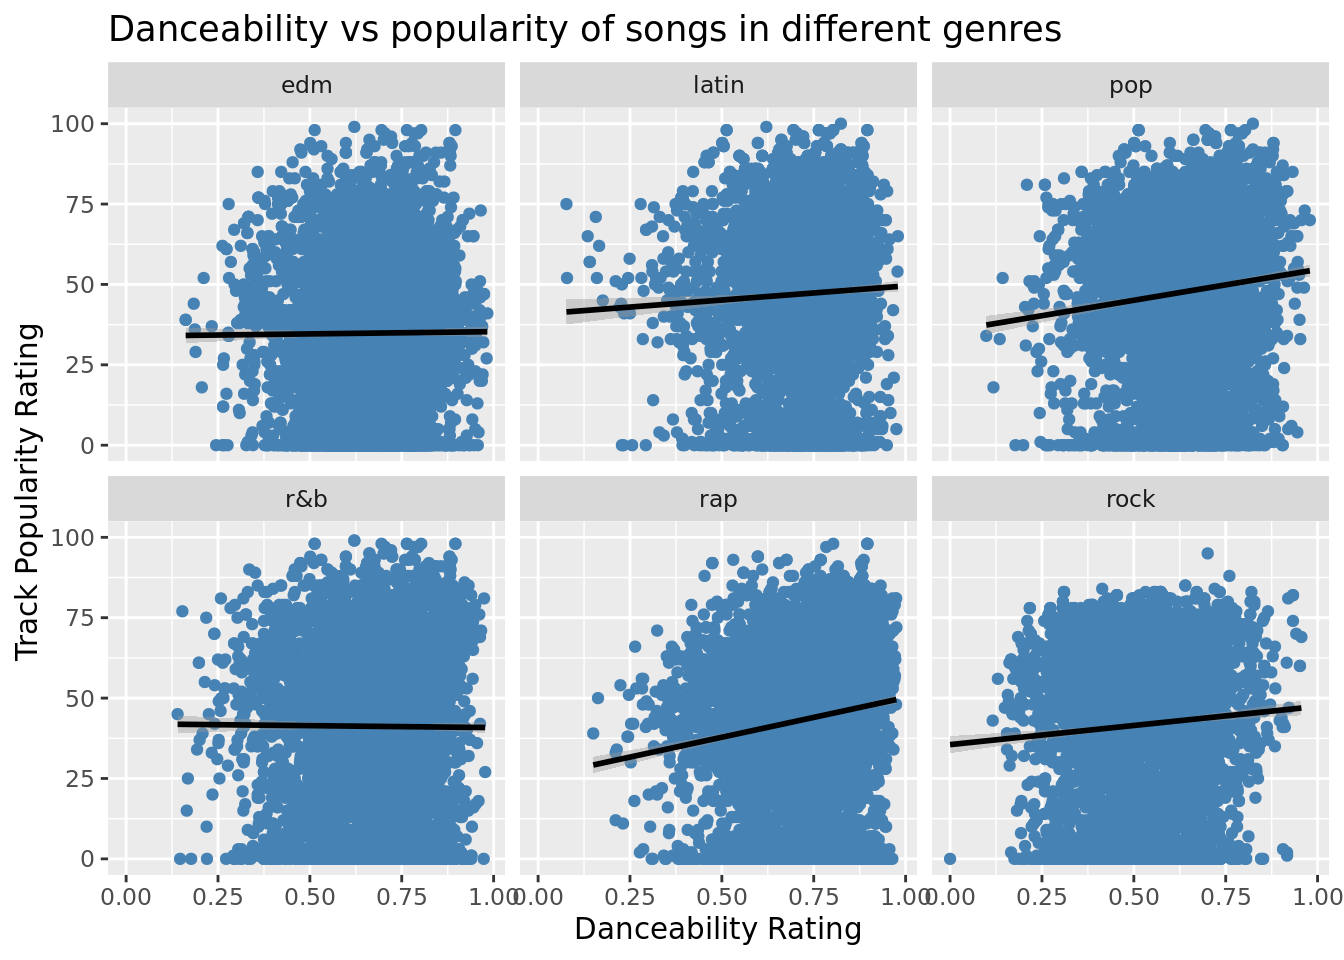
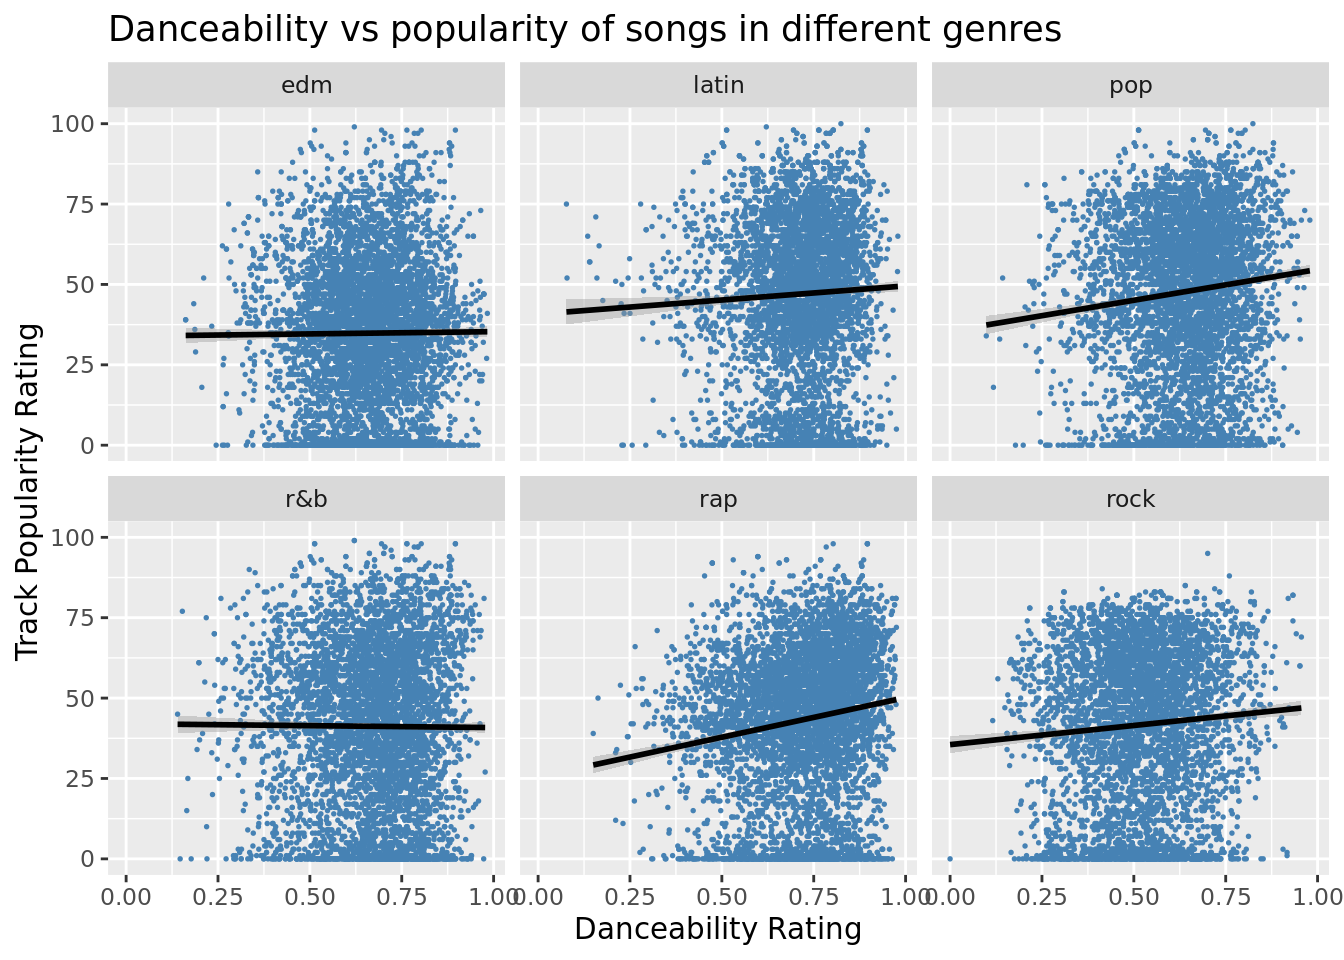
changed plots to be more clear based on recommendations.

diff --git a/docs/report.html b/docs/report.html
@@ -172,6 +172,7 @@ code span.wa { color: #60a0b0; font-weight: bold; font-style: italic; } /* Warni
   <li><a href="#methodology" id="toc-methodology" class="nav-link" data-scroll-target="#methodology">Methodology</a></li>
   <li><a href="#data" id="toc-data" class="nav-link" data-scroll-target="#data">Data</a></li>
   <li><a href="#results-and-analysis" id="toc-results-and-analysis" class="nav-link" data-scroll-target="#results-and-analysis">Results and Analysis</a></li>
+  <li><a href="#overall-results" id="toc-overall-results" class="nav-link" data-scroll-target="#overall-results">Overall Results</a></li>
   </ul>
 </nav>
     </div>
@@ -255,7 +256,7 @@ code span.wa { color: #60a0b0; font-weight: bold; font-style: italic; } /* Warni
 <span id="cb4-5"><a href="#cb4-5" aria-hidden="true" tabindex="-1"></a>      <span class="at">y =</span> track_popularity</span>
 <span id="cb4-6"><a href="#cb4-6" aria-hidden="true" tabindex="-1"></a>    )</span>
 <span id="cb4-7"><a href="#cb4-7" aria-hidden="true" tabindex="-1"></a>  ) <span class="sc">+</span></span>
-<span id="cb4-8"><a href="#cb4-8" aria-hidden="true" tabindex="-1"></a>  <span class="fu">geom_point</span>(<span class="at">color =</span> <span class="st">"steelblue"</span>) <span class="sc">+</span></span>
+<span id="cb4-8"><a href="#cb4-8" aria-hidden="true" tabindex="-1"></a>  <span class="fu">geom_point</span>(<span class="at">color =</span> <span class="st">"steelblue"</span>, <span class="at">alpha =</span> .<span class="dv">5</span>, <span class="at">size =</span> .<span class="dv">5</span>) <span class="sc">+</span></span>
 <span id="cb4-9"><a href="#cb4-9" aria-hidden="true" tabindex="-1"></a>  <span class="fu">geom_smooth</span>(<span class="at">method =</span> <span class="st">"lm"</span>, <span class="at">color =</span> <span class="st">"black"</span>) <span class="sc">+</span></span>
 <span id="cb4-10"><a href="#cb4-10" aria-hidden="true" tabindex="-1"></a>  <span class="fu">labs</span>(</span>
 <span id="cb4-11"><a href="#cb4-11" aria-hidden="true" tabindex="-1"></a>    <span class="at">x =</span> <span class="st">"Danceability Rating"</span>,</span>
@@ -279,7 +280,7 @@ code span.wa { color: #60a0b0; font-weight: bold; font-style: italic; } /* Warni
 <span id="cb6-5"><a href="#cb6-5" aria-hidden="true" tabindex="-1"></a>      <span class="at">y =</span> track_popularity</span>
 <span id="cb6-6"><a href="#cb6-6" aria-hidden="true" tabindex="-1"></a>    )</span>
 <span id="cb6-7"><a href="#cb6-7" aria-hidden="true" tabindex="-1"></a>  ) <span class="sc">+</span></span>
-<span id="cb6-8"><a href="#cb6-8" aria-hidden="true" tabindex="-1"></a>  <span class="fu">geom_point</span>(<span class="at">color =</span> <span class="st">"steelblue"</span>) <span class="sc">+</span></span>
+<span id="cb6-8"><a href="#cb6-8" aria-hidden="true" tabindex="-1"></a>  <span class="fu">geom_point</span>(<span class="at">color =</span> <span class="st">"steelblue"</span>, <span class="at">size =</span> .<span class="dv">3</span>) <span class="sc">+</span></span>
 <span id="cb6-9"><a href="#cb6-9" aria-hidden="true" tabindex="-1"></a>  <span class="fu">geom_smooth</span>(<span class="at">method =</span> <span class="st">"lm"</span>, <span class="at">color =</span> <span class="st">"black"</span>) <span class="sc">+</span></span>
 <span id="cb6-10"><a href="#cb6-10" aria-hidden="true" tabindex="-1"></a>  <span class="fu">facet_wrap</span>(<span class="sc">~</span>playlist_genre) <span class="sc">+</span></span>
 <span id="cb6-11"><a href="#cb6-11" aria-hidden="true" tabindex="-1"></a>  <span class="fu">labs</span>(</span>
@@ -364,19 +365,19 @@ code span.wa { color: #60a0b0; font-weight: bold; font-style: italic; } /* Warni
 <div class="cell">
 <div class="sourceCode cell-code" id="cb14"><pre class="sourceCode r code-with-copy"><code class="sourceCode r"><span id="cb14-1"><a href="#cb14-1" aria-hidden="true" tabindex="-1"></a>general_dance <span class="sc">|&gt;</span></span>
 <span id="cb14-2"><a href="#cb14-2" aria-hidden="true" tabindex="-1"></a>  <span class="fu">glance</span>() <span class="sc">|&gt;</span></span>
-<span id="cb14-3"><a href="#cb14-3" aria-hidden="true" tabindex="-1"></a>  <span class="fu">pull</span>(adj.r.squared)</span></code><button title="Copy to Clipboard" class="code-copy-button"><i class="bi"></i></button></pre></div>
+<span id="cb14-3"><a href="#cb14-3" aria-hidden="true" tabindex="-1"></a>  <span class="fu">pull</span>(adj.r.squared) </span></code><button title="Copy to Clipboard" class="code-copy-button"><i class="bi"></i></button></pre></div>
 <div class="cell-output cell-output-stdout">
 <pre><code>[1] 0.00416193</code></pre>
 </div>
 <div class="sourceCode cell-code" id="cb16"><pre class="sourceCode r code-with-copy"><code class="sourceCode r"><span id="cb16-1"><a href="#cb16-1" aria-hidden="true" tabindex="-1"></a>latin_dance <span class="sc">|&gt;</span></span>
 <span id="cb16-2"><a href="#cb16-2" aria-hidden="true" tabindex="-1"></a>  <span class="fu">glance</span>() <span class="sc">|&gt;</span></span>
-<span id="cb16-3"><a href="#cb16-3" aria-hidden="true" tabindex="-1"></a>  <span class="fu">pull</span>(adj.r.squared)</span></code><button title="Copy to Clipboard" class="code-copy-button"><i class="bi"></i></button></pre></div>
+<span id="cb16-3"><a href="#cb16-3" aria-hidden="true" tabindex="-1"></a>  <span class="fu">pull</span>(adj.r.squared) </span></code><button title="Copy to Clipboard" class="code-copy-button"><i class="bi"></i></button></pre></div>
 <div class="cell-output cell-output-stdout">
 <pre><code>[1] 0.001381617</code></pre>
 </div>
 <div class="sourceCode cell-code" id="cb18"><pre class="sourceCode r code-with-copy"><code class="sourceCode r"><span id="cb18-1"><a href="#cb18-1" aria-hidden="true" tabindex="-1"></a>rap_dance <span class="sc">|&gt;</span></span>
 <span id="cb18-2"><a href="#cb18-2" aria-hidden="true" tabindex="-1"></a>  <span class="fu">glance</span>() <span class="sc">|&gt;</span></span>
-<span id="cb18-3"><a href="#cb18-3" aria-hidden="true" tabindex="-1"></a>  <span class="fu">pull</span>(adj.r.squared)</span></code><button title="Copy to Clipboard" class="code-copy-button"><i class="bi"></i></button></pre></div>
+<span id="cb18-3"><a href="#cb18-3" aria-hidden="true" tabindex="-1"></a>  <span class="fu">pull</span>(adj.r.squared) </span></code><button title="Copy to Clipboard" class="code-copy-button"><i class="bi"></i></button></pre></div>
 <div class="cell-output cell-output-stdout">
 <pre><code>[1] 0.02070946</code></pre>
 </div>
@@ -388,24 +389,36 @@ code span.wa { color: #60a0b0; font-weight: bold; font-style: italic; } /* Warni
 <span id="cb20-2"><a href="#cb20-2" aria-hidden="true" tabindex="-1"></a></span>
 <span id="cb20-3"><a href="#cb20-3" aria-hidden="true" tabindex="-1"></a>general_dance <span class="sc">|&gt;</span></span>
 <span id="cb20-4"><a href="#cb20-4" aria-hidden="true" tabindex="-1"></a>  <span class="fu">glance</span>() <span class="sc">|&gt;</span></span>
-<span id="cb20-5"><a href="#cb20-5" aria-hidden="true" tabindex="-1"></a>  <span class="fu">pull</span>(AIC)</span></code><button title="Copy to Clipboard" class="code-copy-button"><i class="bi"></i></button></pre></div>
+<span id="cb20-5"><a href="#cb20-5" aria-hidden="true" tabindex="-1"></a>  <span class="fu">pull</span>(AIC) <span class="sc">|&gt;</span></span>
+<span id="cb20-6"><a href="#cb20-6" aria-hidden="true" tabindex="-1"></a>  <span class="fu">tibble</span>()</span></code><button title="Copy to Clipboard" class="code-copy-button"><i class="bi"></i></button></pre></div>
 <div class="cell-output cell-output-stdout">
-<pre><code>[1] 304371.9</code></pre>
+<pre><code># A tibble: 1 × 1
+  `pull(glance(general_dance), AIC)`
+                               &lt;dbl&gt;
+1                            304372.</code></pre>
 </div>
 <div class="sourceCode cell-code" id="cb22"><pre class="sourceCode r code-with-copy"><code class="sourceCode r"><span id="cb22-1"><a href="#cb22-1" aria-hidden="true" tabindex="-1"></a>latin_dance <span class="sc">|&gt;</span></span>
 <span id="cb22-2"><a href="#cb22-2" aria-hidden="true" tabindex="-1"></a>  <span class="fu">glance</span>() <span class="sc">|&gt;</span></span>
-<span id="cb22-3"><a href="#cb22-3" aria-hidden="true" tabindex="-1"></a>  <span class="fu">pull</span>(AIC)</span></code><button title="Copy to Clipboard" class="code-copy-button"><i class="bi"></i></button></pre></div>
+<span id="cb22-3"><a href="#cb22-3" aria-hidden="true" tabindex="-1"></a>  <span class="fu">pull</span>(AIC) <span class="sc">|&gt;</span></span>
+<span id="cb22-4"><a href="#cb22-4" aria-hidden="true" tabindex="-1"></a>  <span class="fu">tibble</span>()</span></code><button title="Copy to Clipboard" class="code-copy-button"><i class="bi"></i></button></pre></div>
 <div class="cell-output cell-output-stdout">
-<pre><code>[1] 47986.36</code></pre>
+<pre><code># A tibble: 1 × 1
+  `pull(glance(latin_dance), AIC)`
+                             &lt;dbl&gt;
+1                           47986.</code></pre>
 </div>
 <div class="sourceCode cell-code" id="cb24"><pre class="sourceCode r code-with-copy"><code class="sourceCode r"><span id="cb24-1"><a href="#cb24-1" aria-hidden="true" tabindex="-1"></a>rap_dance <span class="sc">|&gt;</span></span>
 <span id="cb24-2"><a href="#cb24-2" aria-hidden="true" tabindex="-1"></a>  <span class="fu">glance</span>() <span class="sc">|&gt;</span></span>
-<span id="cb24-3"><a href="#cb24-3" aria-hidden="true" tabindex="-1"></a>  <span class="fu">pull</span>(AIC)</span></code><button title="Copy to Clipboard" class="code-copy-button"><i class="bi"></i></button></pre></div>
+<span id="cb24-3"><a href="#cb24-3" aria-hidden="true" tabindex="-1"></a>  <span class="fu">pull</span>(AIC) <span class="sc">|&gt;</span></span>
+<span id="cb24-4"><a href="#cb24-4" aria-hidden="true" tabindex="-1"></a>  <span class="fu">tibble</span>()</span></code><button title="Copy to Clipboard" class="code-copy-button"><i class="bi"></i></button></pre></div>
 <div class="cell-output cell-output-stdout">
-<pre><code>[1] 52373.25</code></pre>
+<pre><code># A tibble: 1 × 1
+  `pull(glance(rap_dance), AIC)`
+                           &lt;dbl&gt;
+1                         52373.</code></pre>
 </div>
 </div>
-<p>Based on AIC calculations, the general model was best fit because it had the lowest AIC value at 304371.9, where the latin model had an AIC of 47986.36 and rap model had an AIC of 52373.25. AIC selects a model with the least mean squared error, so a lower value is preferable.</p>
+<p>Based on AIC calculations, the general model was best fit because it had the lowest AIC value at 304371.9, where the latin model had an AIC of 47986.36 and rap model had an AIC of 52373.25. AIC selects a model with the least mean squared error, so a lower value is preferable ^[http://www.sthda.com/english/articles/38-regression-model-validation/158-regression-model-accuracy-metrics-r-square-aic-bic-cp-and-more/].</p>
 <p><strong>Multiple Linear Regression Models</strong></p>
 <p>Now, we’d like to train multiple linear regression models to predict popularity using dance-ability, tempo, and energy. We’ll train multiple separate models.</p>
 <ol type="1">
@@ -481,6 +494,9 @@ code span.wa { color: #60a0b0; font-weight: bold; font-style: italic; } /* Warni
 </div>
 </div>
 <p>Given that the interaction model between danceability rating, tempo, and energy resulted in the lowest AIC value (303995.3), it is the best fit of the ones assessed at modeling popularity of a song.</p>
+</section>
+<section id="overall-results" class="level2">
+<h2 class="anchored" data-anchor-id="overall-results">Overall Results</h2>
 
 
 </section>
